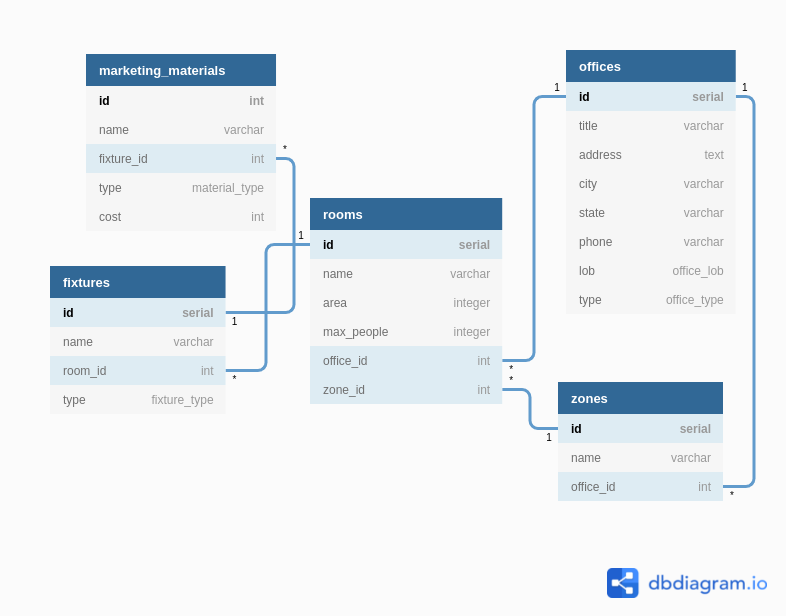
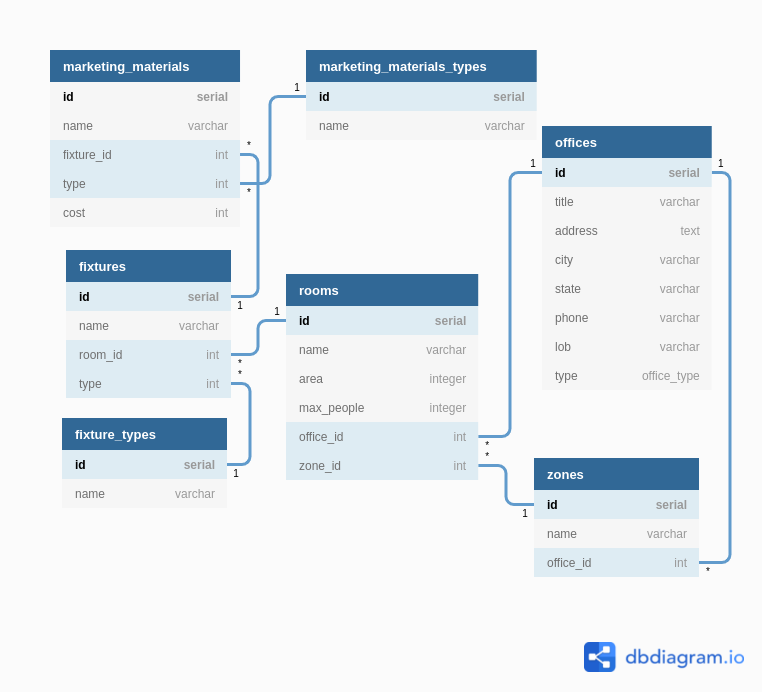
change db architecture

Changed region(s): [[0.0604, 0.0617, 0.9659, 0.8328], [0.7546, 0.9253, 0.9961, 0.987]]

diff --git a/Task_1/challenge_2/create_db.rb b/Task_1/challenge_2/create_db.rb
@@ -1,0 +1,81 @@
+require 'pg'
+
+conn = PG.connect(:dbname => 'task_1', :password => '', :port => 5432, :user => 'ntnshpig')
+
+conn.exec(
+    "CREATE TYPE office_types AS ENUM (
+      'Office',
+      'ATM'
+  );")
+
+conn.exec (
+    'CREATE TABLE IF NOT EXISTS offices (
+      "id" SERIAL PRIMARY KEY NOT NULL,
+      "title" varchar UNIQUE NOT NULL,
+      "address" text NOT NULL,
+      "city" varchar NOT NULL,
+      "state" varchar NOT NULL,
+      "phone" varchar NOT NULL,
+      "lob" varchar NOT NULL,
+      "type" office_type NOT NULL
+  );')
+
+
+conn.exec(
+    'CREATE TABLE IF NOT EXISTS "zones" (
+        "id" SERIAL PRIMARY KEY NOT NULL,
+        "name" varchar NOT NULL,
+        "office_id" int NOT NULL
+    );
+    ALTER TABLE "zones" ADD FOREIGN KEY ("office_id") REFERENCES "offices" ("id") ON DELETE CASCADE;'
+)
+
+
+conn.exec(
+  'CREATE TABLE IF NOT EXISTS "rooms" (
+    "id" SERIAL PRIMARY KEY NOT NULL,
+    "name" varchar NOT NULL,
+    "area" integer NOT NULL,
+    "max_people" integer NOT NULL,
+    "office_id" int NOT NULL,
+    "zone_id" int NOT NULL
+  );
+  ALTER TABLE "rooms" ADD FOREIGN KEY ("office_id") REFERENCES "offices" ("id") ON DELETE CASCADE;
+  ALTER TABLE "rooms" ADD FOREIGN KEY ("zone_id") REFERENCES "zones" ("id") ON DELETE CASCADE;'
+)
+
+
+conn.exec(
+  'CREATE TABLE IF NOT EXISTS "fixtures_types" (
+    "id" SERIAL PRIMARY KEY NOT NULL,
+    "name" varchar NOT NULL
+  );'
+)
+conn.exec(
+  'CREATE TABLE IF NOT EXISTS "fixtures" (
+    "id" SERIAL PRIMARY KEY NOT NULL,
+    "name" varchar NOT NULL,
+    "room_id" int NOT NULL,
+    "type" int NOT NULL
+  );
+  ALTER TABLE "fixtures" ADD FOREIGN KEY ("room_id") REFERENCES "rooms" ("id") ON DELETE CASCADE;
+  ALTER TABLE "fixtures" ADD FOREIGN KEY ("type") REFERENCES "fixtures_types" ("id") ON DELETE CASCADE;'
+)
+
+conn.exec(
+  'CREATE TABLE IF NOT EXISTS "marketing_materials_types" (
+    "id" SERIAL PRIMARY KEY NOT NULL,
+    "name" varchar NOT NULL
+  );'
+)
+conn.exec(
+  'CREATE TABLE IF NOT EXISTS "marketing_materials" (
+    "id" SERIAL PRIMARY KEY NOT NULL,
+    "name" varchar NOT NULL,
+    "fixture_id" int NOT NULL,
+    "type" int NOT NULL,
+    "cost" int NOT NULL
+  );
+  ALTER TABLE "marketing_materials" ADD FOREIGN KEY ("fixture_id") REFERENCES "fixtures" ("id") ON DELETE CASCADE;
+  ALTER TABLE "marketing_materials" ADD FOREIGN KEY ("type") REFERENCES "marketing_materials_types" ("id") ON DELETE CASCADE;'
+)

diff --git a/Task_1/challenge_2/drop_db.rb b/Task_1/challenge_2/drop_db.rb
@@ -1,0 +1,10 @@
+require 'pg'
+
+conn = PG.connect(:dbname => 'task_1', :password => '', :port => 5432, :user => 'ntnshpig')
+
+conn.exec(
+    '
+        DROP TABLE IF EXISTS offices, zones, rooms, fixtures, fixtures_types, marketing_materials, marketing_materials_types cascade;
+        DROP TYPE IF EXISTS office_types cascade;
+    '
+)
